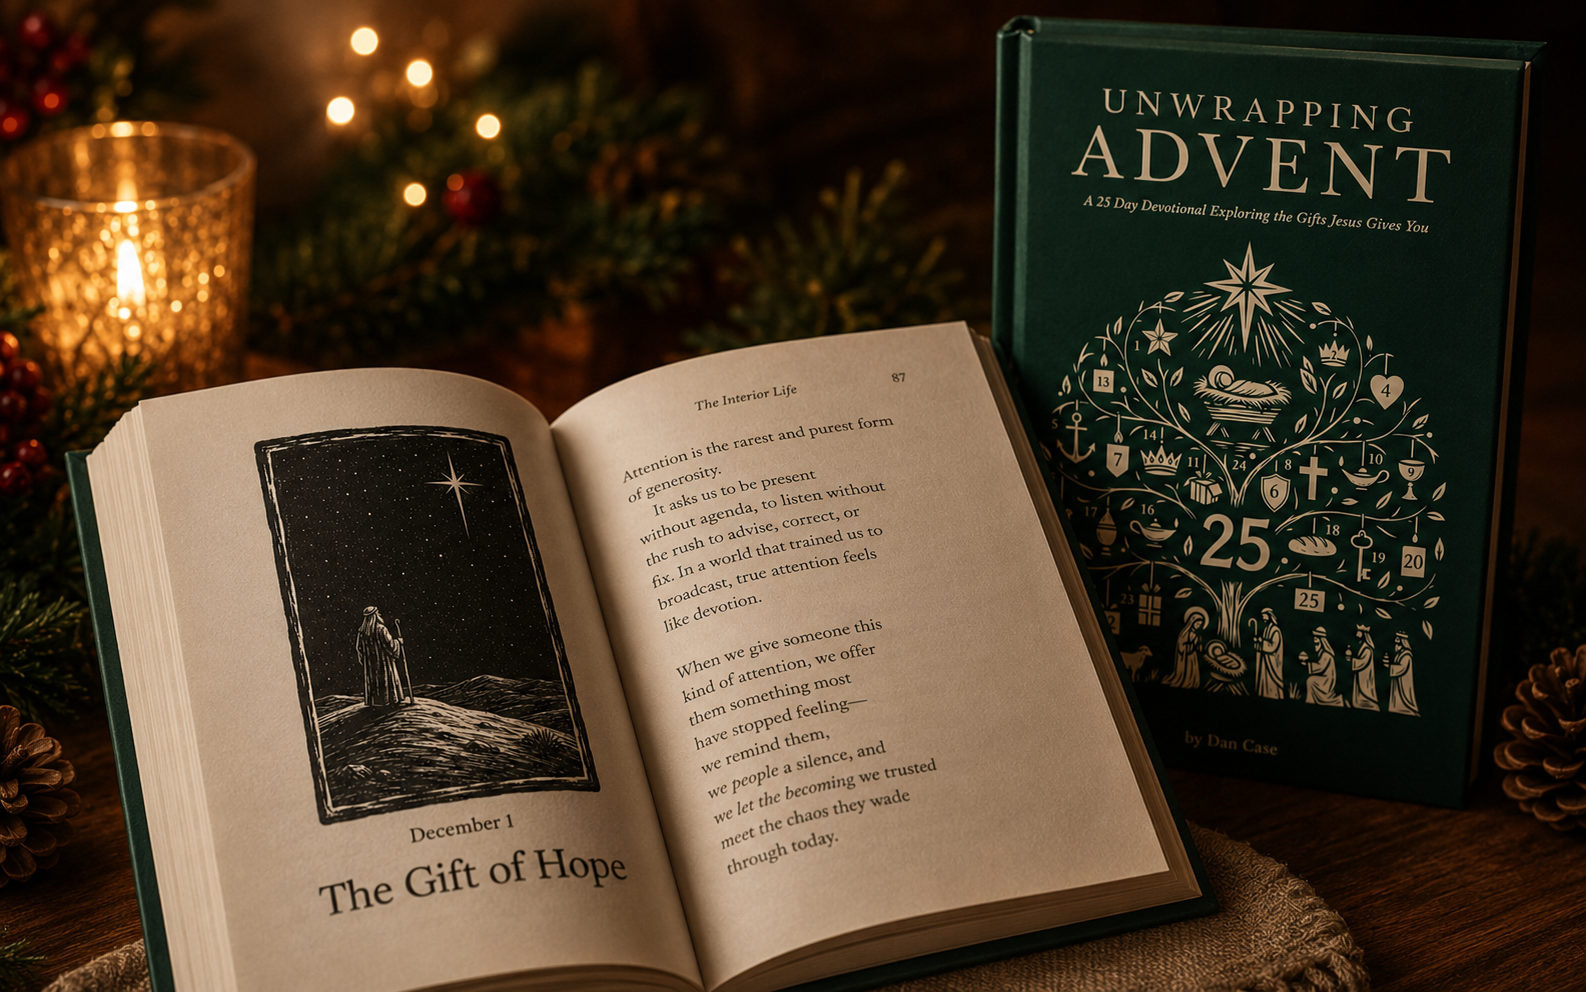
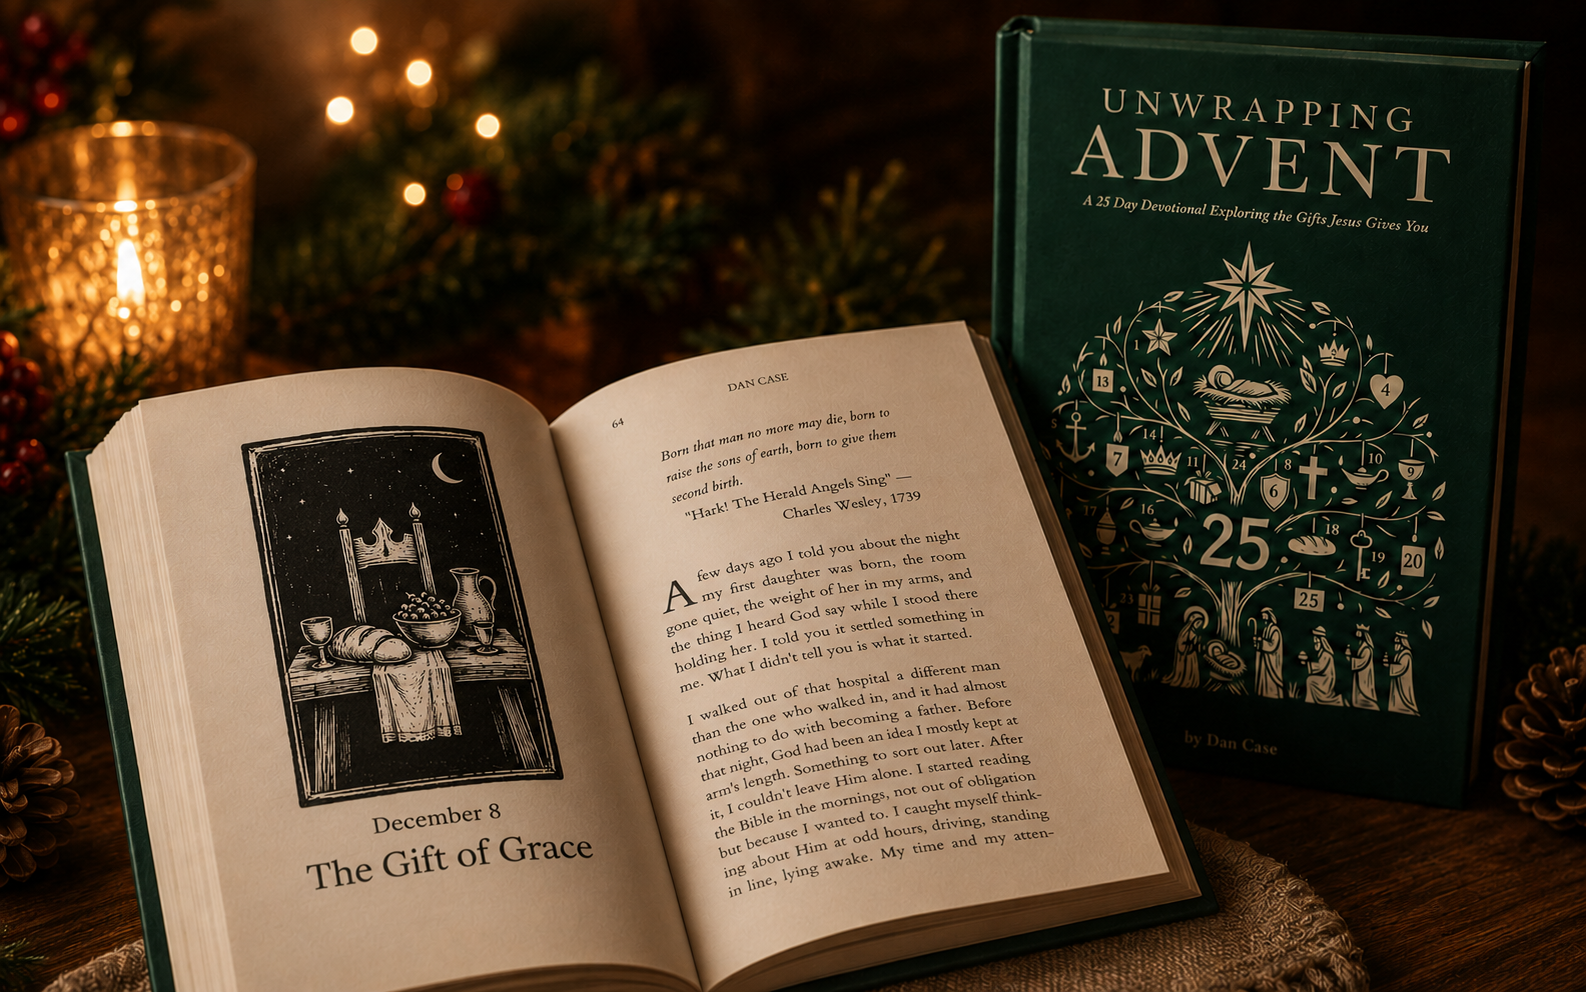
Add files via upload

diff --git a/index.html b/index.html
@@ -3,13 +3,13 @@
 <head>
   <meta charset="utf-8" />
   <meta name="viewport" content="width=device-width, initial-scale=1" />
-  <title>Unwrapping Advent — Gift Edition | A 25-Day Christmas Devotional by Dan Case</title>
-  <meta name="description" content="Unwrapping Advent Gift Edition — a 25-day Christmas devotional by Dan Case, in a 5.5 × 8.5 clothbound hardcover with illustrated dust jacket. $29.95" />
+  <title>Unwrapping Advent | A 25-Day Christmas Devotional by Dan Case</title>
+  <meta name="description" content="Unwrapping Advent — a 25-day Christmas devotional by Dan Case. Available on Amazon in Kindle, paperback, and hardcover." />
   <meta name="theme-color" content="#f6f3eb" />
   <link rel="canonical" href="https://unwrappingadvent.com/" />
   <meta property="og:type" content="book" />
-  <meta property="og:title" content="Unwrapping Advent — Gift Edition" />
-  <meta property="og:description" content="A 25-day Christmas devotional exploring the gifts Jesus gives you. Clothbound hardcover with illustrated dust jacket." />
+  <meta property="og:title" content="Unwrapping Advent — A 25-Day Christmas Devotional" />
+  <meta property="og:description" content="A 25-day Christmas devotional exploring the gifts Jesus gives you. On Amazon in Kindle, paperback, and hardcover." />
   <meta property="og:image" content="assets/hero-display.png" />
   <meta name="twitter:card" content="summary_large_image" />
   <link rel="preload" as="image" href="assets/hero-display.png" fetchpriority="high" />
@@ -90,7 +90,8 @@
     .quick-buy{background:var(--white);border-top:1px solid var(--line);border-bottom:1px solid var(--line)}
     .quick-buy-inner{display:flex;flex-wrap:wrap;gap:24px;align-items:center;justify-content:space-between;padding:26px 0}
     .quick-buy-right{display:flex;align-items:center;gap:24px;flex-wrap:wrap}
-    .price-tag{font-family:var(--serif);font-size:2rem;line-height:1;color:var(--pine)}
+    .format-pills{display:flex;gap:8px;flex-wrap:wrap}
+    .format-pills span{border:1px solid var(--line);background:var(--paper-2);padding:8px 13px;font-size:.7rem;font-weight:700;letter-spacing:.09em;text-transform:uppercase;color:var(--pine);border-radius:999px}
     .subtle{color:var(--muted);font-size:.95rem}
 
     .promise{background:var(--white)}
@@ -120,6 +121,22 @@
     .lifestyle-photo img{width:100%;height:100%;min-height:340px;object-fit:cover}
     .lifestyle-copy{padding:clamp(32px,4.4vw,54px) clamp(26px,4vw,52px);background:var(--white);border:1px solid var(--line);border-radius:var(--radius);display:flex;flex-direction:column;justify-content:center}
     .lifestyle-copy h2{font-size:clamp(1.9rem,3.6vw,3rem)}
+    .reviews{background:var(--pine-dark);color:#f1eee6}
+    .reviews .eyebrow{color:#c8a87c}
+    .reviews h2{color:#f6f3ec}
+    .reviews-grid{display:grid;grid-template-columns:repeat(3,1fr);gap:20px;margin-top:clamp(34px,4.4vw,52px)}
+    .review{border:1px solid rgba(241,238,230,.2);border-radius:var(--radius);padding:clamp(24px,2.8vw,36px);display:flex;flex-direction:column;justify-content:space-between;gap:20px}
+    .review p{font-family:var(--serif);font-size:clamp(1.08rem,1.5vw,1.32rem);line-height:1.42;letter-spacing:-.015em;margin:0;text-wrap:pretty}
+    .review cite{font-style:normal;font-size:.68rem;font-weight:700;letter-spacing:.14em;text-transform:uppercase;opacity:.6}
+    .review-lead{grid-column:span 2;background:rgba(241,238,230,.06)}
+    .review-lead p{font-size:clamp(1.4rem,2.5vw,2.15rem);line-height:1.24}
+    .review-wide{grid-column:span 2}
+    .flatlay{padding:0;background:var(--ink)}
+    .flatlay figure{margin:0;position:relative}
+    .flatlay img{display:block;width:100%;height:auto;aspect-ratio:1448/1086;object-fit:cover;object-position:center 40%}
+    .flatlay figcaption{position:absolute;left:0;right:0;bottom:0;padding:clamp(26px,4vw,48px);background:linear-gradient(to top,rgba(0,0,0,.66),rgba(0,0,0,0));color:#fff;text-align:center}
+    .flatlay figcaption strong{display:block;font-family:var(--serif);font-weight:500;font-size:clamp(1.35rem,2.6vw,2.1rem);letter-spacing:.01em}
+    .flatlay figcaption span{display:block;margin-top:8px;font-size:clamp(.92rem,1.2vw,1.05rem);opacity:.82}
     .lifestyle-copy p{color:#525954;margin:0}
     .for-list{display:grid;grid-template-columns:1fr 1fr;margin-top:22px;border-top:1px solid var(--line)}
     .for-item{padding:18px 22px 18px 24px;border-bottom:1px solid var(--line);position:relative;font-size:.9rem;color:#4d554f}
@@ -166,7 +183,6 @@
     .buy-box-info{flex:1 1 280px}
     .buy-box b{font-family:var(--serif);font-size:1.28rem;font-weight:400}
     .buy-box span{display:block;color:#6a716c;font-size:.82rem;margin-top:4px}
-    .buy-price{font-family:var(--serif);font-size:2rem;color:var(--pine)}
 
     footer{background:#111512;color:#d6d8d5;padding:28px 0;font-size:.76rem}
     .footer-inner{display:flex;justify-content:space-between;gap:24px;flex-wrap:wrap}
@@ -189,6 +205,8 @@
       .promise-quote{position:static}
       .promise-quote blockquote{max-width:22ch}
       .cards-grid{grid-template-columns:1fr 1fr}
+      .reviews-grid{grid-template-columns:1fr 1fr}
+      .review-lead,.review-wide,.reviews-grid .review[style]{grid-column:span 2!important}
       .spread{grid-template-columns:1fr}
       .lifestyle-photo img{min-height:400px}
       .author-photo{max-width:560px}
@@ -214,6 +232,8 @@
       .buy-box-info{flex:1 1 auto}
       .price-banner .wrap{gap:14px;flex-direction:column}
       .lifestyle-photo img{min-height:300px}
+      .reviews-grid{grid-template-columns:1fr}
+      .review-lead,.review-wide,.reviews-grid .review[style]{grid-column:span 1!important}
       .spread-image img{min-height:240px}
       .details-safe,details p{margin-right:0}
       .footer-inner{flex-direction:column;gap:8px}
@@ -240,7 +260,7 @@
   </style>
 </head>
 <body>
-  <div class="notice">Premium Gift Edition · 5.5 × 8.5 Clothbound Hardcover + Dust Jacket · $29.95</div>
+  <div class="notice">Now available on Amazon · Kindle · Paperback · Hardcover</div>
 
   <header class="site-header">
     <div class="wrap nav">
@@ -249,7 +269,7 @@
         <a href="#about">About</a>
         <a href="#inside">Inside</a>
         <a href="#author">Author</a>
-        <a class="nav-buy purchase-link" href="#buy">Buy · $29.95</a>
+        <a class="nav-buy purchase-link" href="#buy">Buy on Amazon</a>
       </nav>
     </div>
   </header>
@@ -263,18 +283,18 @@
           <div class="kicker">A meaningful Advent journey for the heart—and a beautiful book made to be given.</div>
           <p>Slow down through December with 25 Scripture-rooted reflections on hope, grace, peace, forgiveness, God’s presence, and the greatest gift beneath them all: Jesus Himself.</p>
           <div class="actions">
-            <a class="btn btn-primary purchase-link" href="#buy">Buy the Gift Edition · $29.95</a>
+            <a class="btn btn-primary purchase-link" href="#buy">Buy on Amazon</a>
             <a class="btn btn-secondary" href="#inside">See Inside the Book</a>
           </div>
-          <div class="hero-format" aria-label="Gift edition features">
+          <div class="hero-format" aria-label="Available formats">
             <div class="format-card"><b>25 Daily Readings</b><span>December 1–25 devotional journey</span></div>
-            <div class="format-card"><b>Premium Gift Edition</b><span>Beautiful 5.5 × 8.5 keepsake format</span></div>
-            <div class="format-card"><b>Cloth + Jacket</b><span>Made to be wrapped, given, and kept</span></div>
+            <div class="format-card"><b>Three Formats</b><span>Kindle, paperback, and hardcover</span></div>
+            <div class="format-card"><b>5.5 × 8.5 Print</b><span>A size made for gifting and keeping</span></div>
           </div>
         </div>
         <div class="hero-image">
-          <img src="assets/hero-display.png" width="1303" height="1207" alt="Unwrapping Advent Gift Edition standing on a wood table beside a stack of copies, candlelight, and Christmas greenery" />
-          <div class="edition-stamp"><b>The Gift Edition</b><span>A premium edition created for Christmas giving</span></div>
+          <img src="assets/hero-display.png" width="1303" height="1207" alt="Unwrapping Advent standing on a wood table beside a stack of copies, candlelight, and Christmas greenery" />
+          <div class="edition-stamp"><b>Available on Amazon</b><span>Kindle · Paperback · Hardcover</span></div>
         </div>
       </div>
     </section>
@@ -282,13 +302,13 @@
     <section class="quick-buy" aria-label="Quick purchase callout">
       <div class="wrap quick-buy-inner">
         <div>
-          <div class="eyebrow">Gift Edition Pricing</div>
+          <div class="eyebrow">Available now on Amazon</div>
           <div class="rule"></div>
-          <div class="subtle">Clothbound hardcover · illustrated dust jacket · original interior artwork</div>
+          <div class="subtle">Kindle · 5.5 × 8.5 paperback · hardcover · original interior artwork</div>
         </div>
         <div class="quick-buy-right">
-          <div class="price-tag">$29.95</div>
-          <a class="btn btn-primary purchase-link" href="#buy">Purchase Gift Edition</a>
+          <div class="format-pills"><span>Kindle</span><span>Paperback</span><span>Hardcover</span></div>
+          <a class="btn btn-primary purchase-link" href="#buy">Buy on Amazon</a>
         </div>
       </div>
     </section>
@@ -320,7 +340,7 @@
           <p>Each reading is designed to be substantial enough to stay with you and simple enough to become part of a quiet morning, evening by the tree, family Advent rhythm, or personal devotional time.</p>
         </div>
         <div class="spread">
-          <div class="spread-image"><img src="assets/interior-spread.png" width="1586" height="992" loading="lazy" alt="Open Unwrapping Advent pages featuring The Gift of Hope illustration" /></div>
+          <div class="spread-image"><img src="assets/interior-spread.png" width="1586" height="992" loading="lazy" alt="Open Unwrapping Advent showing December 8, The Gift of Grace, beside the hardcover edition by candlelight" /></div>
           <div class="spread-copy">
             <div class="eyebrow">December 1 · The Gift of Hope</div>
             <h3>Thoughtful writing. Scripture. Prayer. Original art.</h3>
@@ -331,7 +351,7 @@
               <li>Original black-and-white illustrations</li>
               <li>A closing prayer that turns the reading toward God</li>
             </ul>
-            <div class="actions"><a class="btn btn-primary purchase-link" href="#buy">Purchase Gift Edition · $29.95</a></div>
+            <div class="actions"><a class="btn btn-primary purchase-link" href="#buy">Buy on Amazon</a></div>
           </div>
         </div>
       </div>
@@ -344,7 +364,7 @@
           <div class="eyebrow">A quieter Christmas</div>
           <h2 class="head-sub">Make a little room for what matters most.</h2>
           <div class="rule"></div>
-          <p>Advent has a way of slowing a rushed season down. A chair. A warm drink. A few pages. A prayer. The Gift Edition is designed to become part of that rhythm—and beautiful enough to sit beside the tree all month.</p>
+          <p>Advent has a way of slowing a rushed season down. A chair. A warm drink. A few pages. A prayer. The book is made to become part of that rhythm—and to sit beside the tree all month.</p>
           <div class="for-list">
             <div class="for-item">For your own morning devotional</div>
             <div class="for-item">For a spouse or close friend</div>
@@ -353,7 +373,7 @@
             <div class="for-item">For a family Advent tradition</div>
             <div class="for-item">For someone who needs hope this season</div>
           </div>
-          <div class="actions"><a class="btn btn-secondary purchase-link" href="#buy">Get the Gift Edition</a></div>
+          <div class="actions"><a class="btn btn-secondary purchase-link" href="#buy">Find It on Amazon</a></div>
         </div>
       </div>
     </section>
@@ -365,17 +385,54 @@
         <div class="cards-grid">
           <div class="card"><div class="num">01</div><h3>25 daily devotionals</h3><p>One reading per day for December 1 through Christmas Day.</p></div>
           <div class="card"><div class="num">02</div><h3>Original illustrations</h3><p>Woodcut-inspired black-and-white art created for the devotional.</p></div>
-          <div class="card"><div class="num">03</div><h3>Gift-quality format</h3><p>A clothbound hardcover with a dust jacket worthy of wrapping and giving.</p></div>
+          <div class="card"><div class="num">03</div><h3>Three ways to read</h3><p>Kindle, paperback, and hardcover—read it your way or give it as a gift.</p></div>
           <div class="card"><div class="num">04</div><h3>Hope-filled substance</h3><p>Scripture, reflection, and prayer that point again and again to Christ.</p></div>
         </div>
       </div>
     </section>
 
+    <section class="section reviews">
+      <div class="wrap">
+        <div class="center">
+          <div class="eyebrow">Reader reviews</div>
+          <h2 class="head-sub">What readers are saying.</h2>
+        </div>
+        <div class="reviews-grid">
+          <blockquote class="review review-lead">
+            <p>“This advent book is a beautiful reminder of what Christmas is truly about.”</p>
+            <cite>Amazon review</cite>
+          </blockquote>
+          <blockquote class="review">
+            <p>“I loved this book.”</p>
+            <cite>Amazon review</cite>
+          </blockquote>
+          <blockquote class="review">
+            <p>“It's gospel-centered, it's well-paced, and it turns your eyes and your heart to focus on Jesus”</p>
+            <cite>Amazon review</cite>
+          </blockquote>
+          <blockquote class="review review-wide">
+            <p>“In a time of year that can be overwhelming with the hustle and bustle, his devotions would be a great addition to help you slow down and savor the season.”</p>
+            <cite>Amazon review</cite>
+          </blockquote>
+          <blockquote class="review" style="grid-column:span 3">
+            <p>"I will be bringing this to our family this year and this will be what we read each night. "</p>
+            <cite>Amazon review</cite>
+          </blockquote>
+        </div>
+      </div>
+    </section>
+
+    <section class="section flatlay">
+      <figure>
+        <img src="assets/cover-flatlay.png" width="1448" height="1086" loading="lazy" alt="Unwrapping Advent hardcover on a wood table with coffee, a candle, ribbon, and evergreen sprigs" />
+      </figure>
+    </section>
+
     <section class="price-banner">
       <div class="wrap">
-        <strong>$29.95</strong>
-        <span>Premium Gift Edition · Clothbound hardcover with illustrated dust jacket</span>
-        <a class="btn btn-light purchase-link" href="#buy">Purchase</a>
+        <strong>Three formats</strong>
+        <span>Kindle, paperback, and hardcover — all on one Amazon listing</span>
+        <a class="btn btn-light purchase-link" href="#buy">Buy on Amazon</a>
       </div>
     </section>
 
@@ -386,7 +443,6 @@
           <div class="eyebrow">About the author</div>
           <h2 class="head-sub">Dan Case</h2>
           <div class="rule"></div>
-          <p class="bio-lead">“I am not a pastor. I do not lead a church. I am simply a man trying to follow Jesus in the steady noise of everyday life.”</p>
           <p>Dan has spent more than twenty-three years working in advertising as a creative professional. He is a husband and father of four, and his writing grows out of the intersection of Scripture, ordinary family life, creative work, and a desire to pay closer attention to what God is doing beneath the surface.</p>
           <p><em>Unwrapping Advent</em> grew from his family’s own December tradition: gathering together, lighting candles, reading Scripture, singing carols, and learning that slowing down can steady a season that otherwise moves too quickly.</p>
           <p>His hope for the book is simple—that it gives readers permission to slow down, listen, notice what they might otherwise walk past, and turn their hearts again toward Christ.</p>
@@ -403,11 +459,11 @@
           <p class="small">Questions about an order or a bulk purchase? Reach out to the publisher at <a href="mailto:hello@tomeify.com">hello@tomeify.com</a>.</p>
         </div>
         <div>
-          <details open><summary>Is this the same version sold on Amazon?</summary><p>No. Softcover, Kindle, and standard hardcover editions are planned for Amazon KDP. This page is specifically for the premium Gift Edition, with a clothbound hardcover and illustrated dust jacket.</p></details>
-          <details><summary>What does the Gift Edition cost?</summary><p>The Premium Gift Edition is priced at <strong>$29.95</strong>.</p></details>
+          <details open><summary>Which formats are available?</summary><p>Three: Kindle, paperback, and hardcover. All three are on the same Amazon listing—choose your format there.</p></details>
+          <details><summary>Where can I buy it?</summary><p>Every button on this page goes to the book’s Amazon listing, where current pricing and delivery estimates are shown.</p></details>
           <details><summary>When should I begin reading?</summary><p>The main devotional journey runs December 1 through December 25, one reading per day, leading into Christmas Day.</p></details>
           <details><summary>Is it meant for individuals or families?</summary><p>Both. The writing works as a personal devotional, while the 25-day structure also makes it easy to build into a household Advent tradition or small-group rhythm.</p></details>
-          <details><summary>Where do I order it?</summary><p>Every purchase button on this page leads to the same checkout. Order early in the season to have the book in hand before December 1.</p></details>
+          <details><summary>Can I give it as a gift?</summary><p>Yes. The paperback and hardcover both work well as gifts, and Amazon can ship directly to the recipient. Order early in the season to have the book in hand before December 1.</p></details>
         </div>
       </div>
     </section>
@@ -418,28 +474,26 @@
         <h2>Give a book that opens something new every day.</h2>
         <p>Bring <em>Unwrapping Advent</em> into your home this December—or give it to someone you love as an invitation to slow down, draw near, and rediscover the gifts Christ has already given.</p>
         <div class="buy-box">
-          <div class="buy-box-info"><b>Unwrapping Advent · Premium Gift Edition</b><span>5.5 × 8.5 clothbound hardcover · illustrated dust jacket · 25-day devotional</span></div>
-          <div class="buy-price">$29.95</div>
-          <a class="btn btn-primary purchase-link" href="#buy">Buy the Gift Edition</a>
+          <div class="buy-box-info"><b>Unwrapping Advent · A 25-Day Christmas Devotional</b><span>Kindle · 5.5 × 8.5 paperback · hardcover</span></div>
+          <a class="btn btn-primary purchase-link" href="#buy">Buy on Amazon</a>
         </div>
       </div>
     </section>
   </main>
 
   <footer>
-    <div class="wrap footer-inner"><span>© 2026 Dan Case. All rights reserved.</span><span>Unwrapping Advent · Gift Edition</span></div>
+    <div class="wrap footer-inner"><span>© 2026 Dan Case. All rights reserved.</span><span>Unwrapping Advent · Available on Amazon</span></div>
   </footer>
 
-  <div class="mobile-bar"><a class="btn btn-primary purchase-link" href="#buy">Buy Gift Edition · $29.95</a></div>
+  <div class="mobile-bar"><a class="btn btn-primary purchase-link" href="#buy">Buy on Amazon</a></div>
 
   <script>
     /* ─────────────────────────────────────────────────────────────
-       SHOPIFY CHECKOUT LINK
-       Paste your Shopify product or cart URL between the quotes.
-       Every "Buy" button on the page will point to it automatically.
+       AMAZON LISTING LINK
+       Every "Buy" button on the page points to this URL.
        Leave it empty and the buttons just scroll down to the buy section.
        ───────────────────────────────────────────────────────────── */
-    const PURCHASE_URL = "";
+    const PURCHASE_URL = "https://www.amazon.com/dp/B0HGZLNGVS";
 
     if (PURCHASE_URL) {
       document.querySelectorAll('.purchase-link').forEach(function (link) {
